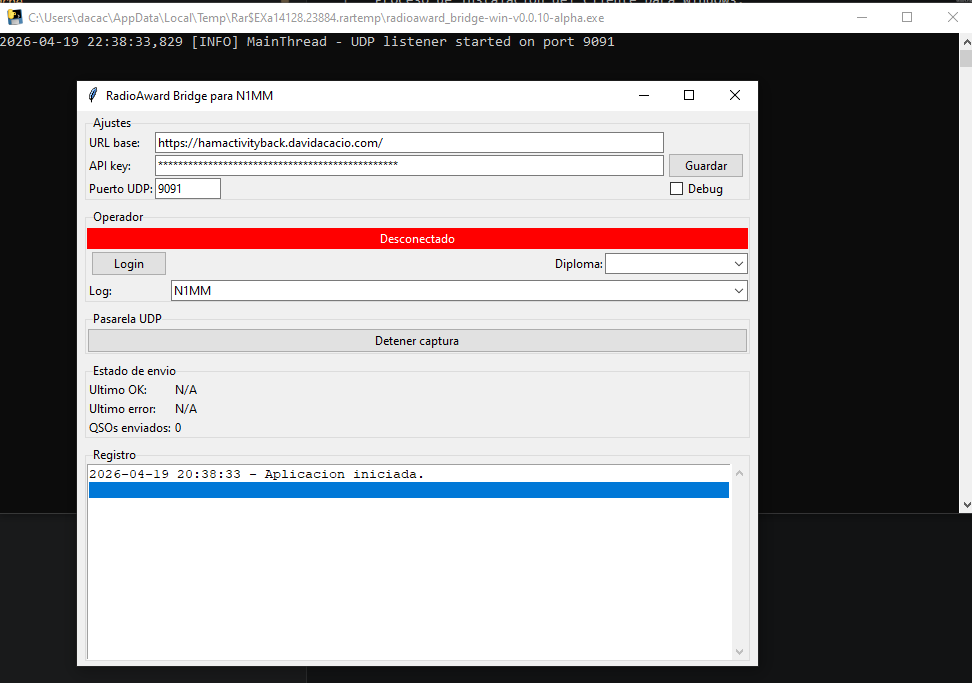
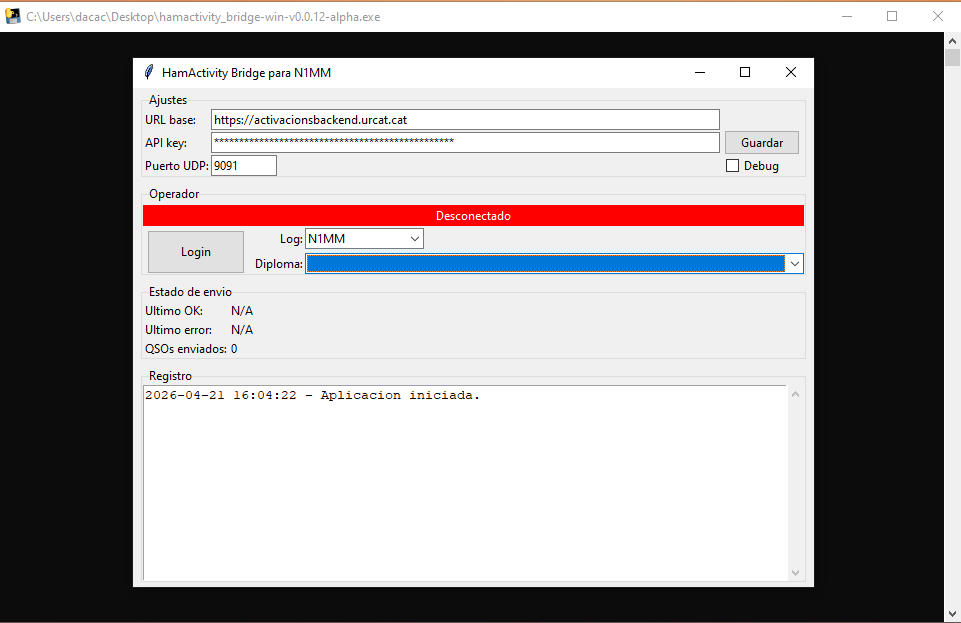
Allow contextual menus

Changed region(s): [[0.0, 0.0, 1.0, 1.0], [0.3746, 0.488, 0.4683, 0.5185]]

diff --git a/radioaward_bridge.py b/radioaward_bridge.py
@@ -282,7 +282,7 @@ class MainWindow:
 
     def __init__(self, root: tk.Tk) -> None:
         self.root = root
-        self.root.title("HamActivity Bridge para N1MM")
+        self.root.title("HamActivity Bridge")
 
         self.settings_manager = SettingsManager()
         settings = self.settings_manager.load()
@@ -312,9 +312,8 @@ class MainWindow:
 
         ttk.Label(settings_frame, text="URL base:").grid(row=0, column=0, sticky="w")
         self.base_url_var = tk.StringVar(value=settings["base_url"])
-        ttk.Entry(settings_frame, textvariable=self.base_url_var).grid(
-            row=0, column=1, sticky="ew"
-        )
+        self.base_url_entry = ttk.Entry(settings_frame, textvariable=self.base_url_var)
+        self.base_url_entry.grid(row=0, column=1, sticky="ew")
 
         ttk.Label(settings_frame, text="API key:").grid(row=1, column=0, sticky="w")
         self.api_key_var = tk.StringVar(value=settings["api_key"])
@@ -328,9 +327,10 @@ class MainWindow:
 
         ttk.Label(settings_frame, text="Puerto UDP:").grid(row=2, column=0, sticky="w")
         self.udp_port_var = tk.IntVar(value=settings["udp_port"])
-        ttk.Entry(settings_frame, textvariable=self.udp_port_var, width=10).grid(
-            row=2, column=1, sticky="w"
+        self.udp_port_entry = ttk.Entry(
+            settings_frame, textvariable=self.udp_port_var, width=10
         )
+        self.udp_port_entry.grid(row=2, column=1, sticky="w")
         ttk.Checkbutton(
             settings_frame, text="Debug", variable=self.debug_var
         ).grid(row=2, column=2, padx=4, sticky="w")
@@ -409,6 +409,62 @@ class MainWindow:
         scrollbar = ttk.Scrollbar(log_frame, command=self.log_text.yview)
         scrollbar.grid(row=0, column=1, sticky="ns")
         self.log_text["yscrollcommand"] = scrollbar.set
+        self._enable_context_menus()
+
+    def _enable_context_menus(self) -> None:
+        editable_widgets = (
+            self.base_url_entry,
+            self.api_entry,
+            self.udp_port_entry,
+        )
+        for widget in editable_widgets:
+            self._bind_context_menu(widget, readonly=False)
+        self._bind_context_menu(self.log_text, readonly=True)
+
+    def _bind_context_menu(self, widget: tk.Widget, readonly: bool) -> None:
+        widget.bind(
+            "<Button-3>",
+            lambda event, target=widget, read_only=readonly: self._show_context_menu(
+                event, target, read_only
+            ),
+        )
+        widget.bind(
+            "<Control-a>",
+            lambda event, target=widget: self._select_all(target),
+        )
+
+    def _show_context_menu(
+        self, event: tk.Event, widget: tk.Widget, readonly: bool
+    ) -> str:
+        widget.focus_set()
+        menu = tk.Menu(self.root, tearoff=False)
+        if not readonly:
+            menu.add_command(
+                label="Cortar",
+                command=lambda: widget.event_generate("<<Cut>>"),
+            )
+        menu.add_command(
+            label="Copiar",
+            command=lambda: widget.event_generate("<<Copy>>"),
+        )
+        if not readonly:
+            menu.add_command(
+                label="Pegar",
+                command=lambda: widget.event_generate("<<Paste>>"),
+            )
+        menu.add_separator()
+        menu.add_command(label="Seleccionar todo", command=lambda: self._select_all(widget))
+        menu.tk_popup(event.x_root, event.y_root)
+        return "break"
+
+    @staticmethod
+    def _select_all(widget: tk.Widget) -> str:
+        if isinstance(widget, tk.Text):
+            widget.tag_add("sel", "1.0", "end-1c")
+        else:
+            widget.selection_range(0, "end")  # type: ignore[attr-defined]
+            widget.icursor("end")  # type: ignore[attr-defined]
+        return "break"
 
     def save_settings(self) -> None:
         old_port = self.udp_listener.port if self.udp_listener else None

diff --git a/README.md b/README.md
@@ -80,7 +80,7 @@ release:
    - Se ejecuta automáticamente al publicar una release y también admite
      ejecución manual con el tag deseado.
    - Corre en `ubuntu-latest`, instala `pandoc` y `wkhtmltopdf`.
-   - Convierte `INSTALL.md` en
+   - Convierte `INSTALL-WINDOWS.md` en
      `dist/hamactivity_bridge-install-<tag>.pdf` incluyendo las imágenes del
      documento.
    - Sube el PDF como artefacto del workflow y también como asset en la release.
